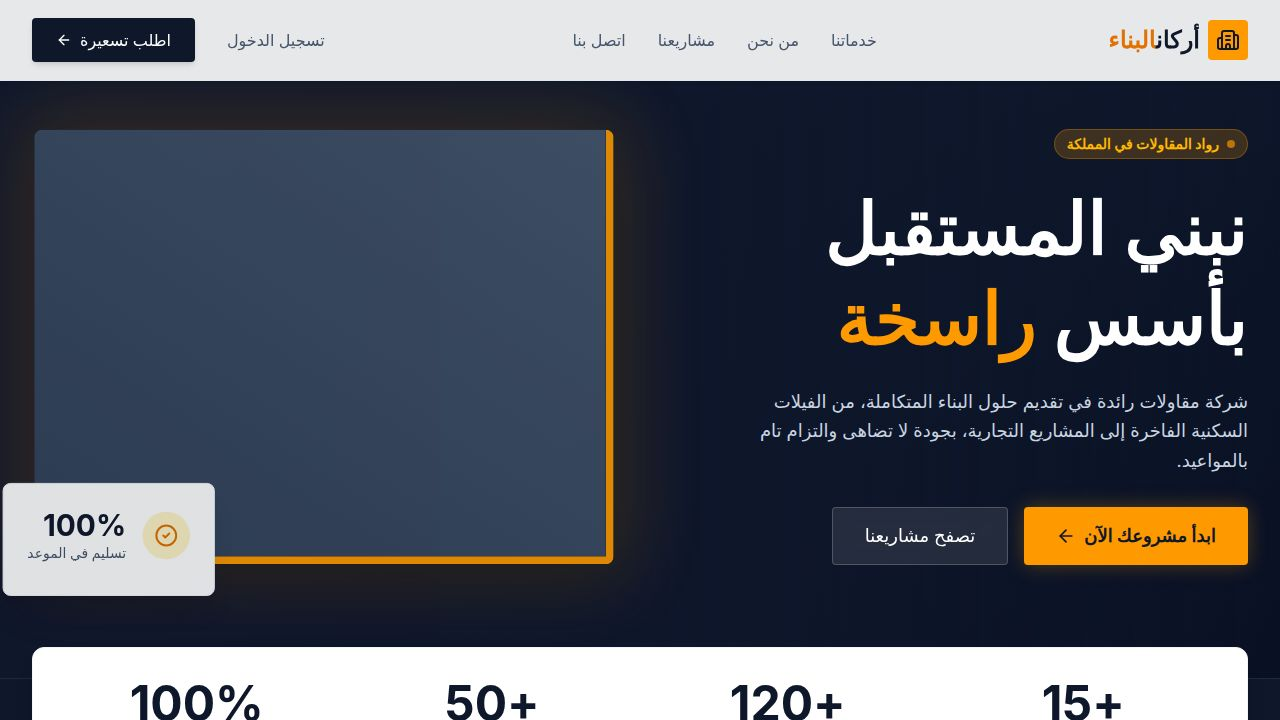
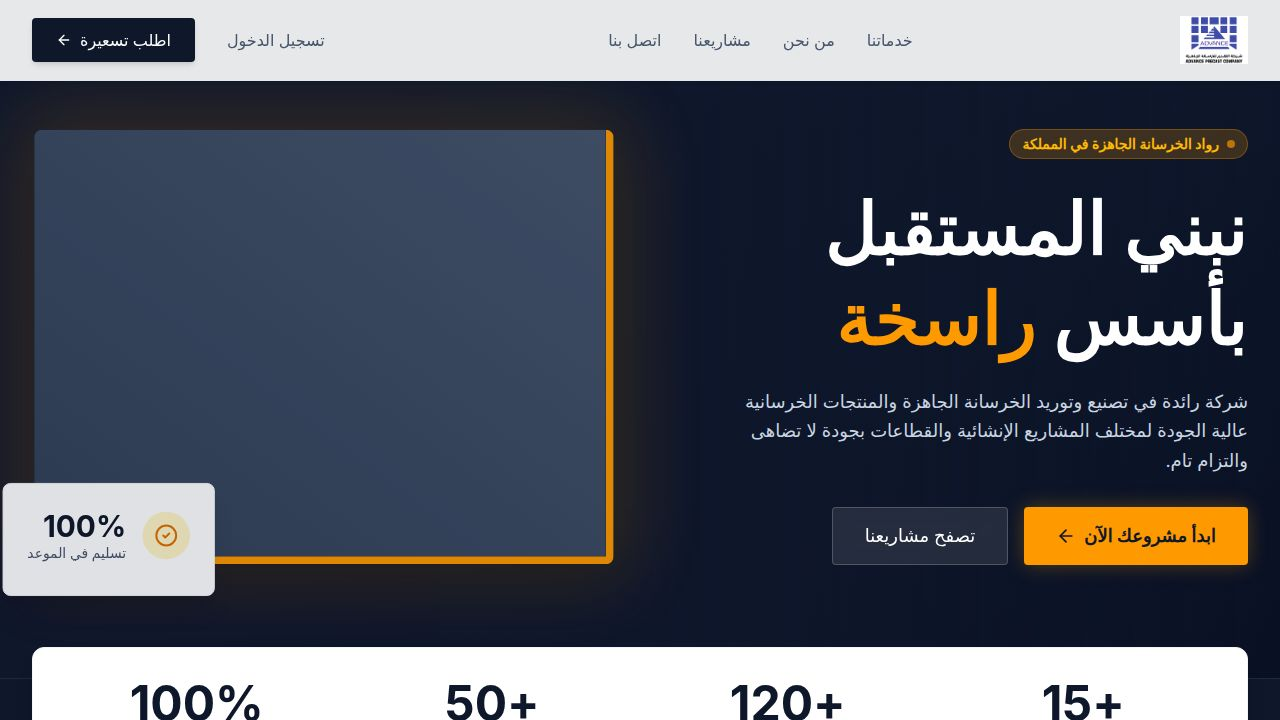
Update company branding to reflect precast concrete specialization
Replace old company name and logo with new branding for "Advance Precast Company". Update website copy and email to reflect specialization.

Replit-Commit-Author: Agent
Replit-Commit-Session-Id: 3ed3f2f6-767d-4bb3-90f8-93438a2cdc67
Replit-Commit-Checkpoint-Type: full_checkpoint
Replit-Commit-Event-Id: 6deca116-220c-4197-b498-29e1e76ca1f5
Replit-Commit-Screenshot-Url: https://storage.googleapis.com/screenshot-production-us-central1/3832555d-48f5-4ab1-b8c0-a8dc9268190d/3ed3f2f6-767d-4bb3-90f8-93438a2cdc67/ygsLLxz
Replit-Helium-Checkpoint-Created: true

diff --git a/artifacts/company-system/src/pages/home.tsx b/artifacts/company-system/src/pages/home.tsx
@@ -27,10 +27,7 @@ export function Home() {
         <div className="max-w-7xl mx-auto px-4 sm:px-6 lg:px-8">
           <div className="flex justify-between h-20 items-center">
             <Link href="/" className="flex items-center gap-2 cursor-pointer" data-testid="link-home">
-              <div className="w-10 h-10 bg-amber-500 rounded flex items-center justify-center">
-                <Building2 className="text-slate-900 w-6 h-6" />
-              </div>
-              <span className="font-bold text-2xl tracking-tight text-slate-900">أركان<span className="text-amber-600">البناء</span></span>
+              <img src="/company-logo.png" alt="شركة التقدم للخرسانة الجاهزة" className="h-12 w-auto" />
             </Link>
             
             <div className="hidden md:flex items-center gap-8 font-medium">
@@ -92,13 +89,13 @@ export function Home() {
             >
               <motion.div variants={fadeIn} className="inline-flex items-center gap-2 px-3 py-1 rounded-full bg-amber-500/20 border border-amber-500/30 text-amber-400 text-sm font-semibold mb-6">
                 <span className="w-2 h-2 rounded-full bg-amber-500 animate-pulse"></span>
-                رواد المقاولات في المملكة
+                رواد الخرسانة الجاهزة في المملكة
               </motion.div>
               <motion.h1 variants={fadeIn} className="text-5xl lg:text-7xl font-bold leading-tight mb-6 text-white">
                 نبني المستقبل بأسس <span className="text-amber-500">راسخة</span>
               </motion.h1>
               <motion.p variants={fadeIn} className="text-lg text-slate-300 mb-8 leading-relaxed max-w-lg">
-                شركة مقاولات رائدة في تقديم حلول البناء المتكاملة، من الفيلات السكنية الفاخرة إلى المشاريع التجارية، بجودة لا تضاهى والتزام تام بالمواعيد.
+                شركة رائدة في تصنيع وتوريد الخرسانة الجاهزة والمنتجات الخرسانية عالية الجودة لمختلف المشاريع الإنشائية والقطاعات بجودة لا تضاهى والتزام تام.
               </motion.p>
               <motion.div variants={fadeIn} className="flex flex-col sm:flex-row gap-4">
                 <button className="bg-amber-500 hover:bg-amber-400 text-slate-900 px-8 py-3.5 rounded font-bold text-lg transition-all shadow-[0_0_20px_rgba(245,158,11,0.3)] hover:shadow-[0_0_30px_rgba(245,158,11,0.5)] flex items-center justify-center gap-2" data-testid="button-start-project">
@@ -245,7 +242,7 @@ export function Home() {
                     </div>
                     <div>
                       <div className="text-slate-400 text-sm mb-1">البريد الإلكتروني</div>
-                      <div className="text-lg font-medium font-sans" dir="ltr">info@arkan-build.com</div>
+                      <div className="text-lg font-medium font-sans" dir="ltr">info@advance-precast.com</div>
                     </div>
                   </div>
                   

diff --git a/artifacts/company-system/src/pages/login.tsx b/artifacts/company-system/src/pages/login.tsx
@@ -61,11 +61,14 @@ export function Login() {
         </div>
         
         <div className="relative z-10">
-          <div className="flex items-center gap-2 mb-12">
-            <div className="w-12 h-12 bg-amber-500 rounded flex items-center justify-center shadow-lg">
-              <Building2 className="text-slate-900 w-7 h-7" />
+          <div className="flex items-center gap-3 mb-12">
+            <div className="bg-white rounded-xl p-2 shadow-lg">
+              <img src="/company-logo.png" alt="شركة التقدم للخرسانة الجاهزة" className="h-12 w-auto" />
             </div>
-            <span className="font-bold text-3xl tracking-tight text-white">أركان<span className="text-amber-500">البناء</span></span>
+            <div className="flex flex-col">
+              <span className="font-bold text-lg leading-tight text-white">شركة التقدم</span>
+              <span className="font-bold text-lg leading-tight text-amber-400">للخرسانة الجاهزة</span>
+            </div>
           </div>
         </div>
 
@@ -98,11 +101,8 @@ export function Login() {
       <div className="w-full md:w-1/2 flex items-center justify-center p-8 md:p-12 relative bg-white">
         <div className="w-full max-w-md">
           
-          <div className="md:hidden flex items-center gap-2 mb-12 justify-center">
-            <div className="w-10 h-10 bg-amber-500 rounded flex items-center justify-center">
-              <Building2 className="text-slate-900 w-6 h-6" />
-            </div>
-            <span className="font-bold text-2xl tracking-tight text-slate-900">أركان<span className="text-amber-600">البناء</span></span>
+          <div className="md:hidden flex items-center gap-3 mb-12 justify-center">
+            <img src="/company-logo.png" alt="شركة التقدم للخرسانة الجاهزة" className="h-14 w-auto" />
           </div>
 
           <div className="mb-10 text-center md:text-right">

diff --git a/artifacts/api-server/src/routes/company.ts b/artifacts/api-server/src/routes/company.ts
@@ -48,7 +48,7 @@ const stringField = (body: Record<string, unknown>, key: string) => typeof body[
 const arrayField = (body: Record<string, unknown>, key: string) => Array.isArray(body[key]) ? body[key].filter((item): item is string => typeof item === "string") : [];
 const isEmail = (value: string) => /^[^\s@]+@[^\s@]+\.[^\s@]+$/.test(value);
 const daysUntil = (date: Date | null) => date ? Math.ceil((date.getTime() - Date.now()) / (1000 * 60 * 60 * 24)) : null;
-const systemEmail = () => process.env.COMPANY_SYSTEM_EMAIL ?? "info@arkan-build.com";
+const systemEmail = () => process.env.COMPANY_SYSTEM_EMAIL ?? "info@advance-precast.com";
 
 const publicUser = (user: typeof systemUsersTable.$inferSelect) => ({
   id: user.id,
@@ -487,7 +487,7 @@ router.post("/company/contracts/:id/email-update", async (req, res): Promise<voi
     fromEmail: systemEmail(),
     toEmail,
     subject: `تحديث عقد ${contract.code} - ${contract.projectName}`,
-    body: `مرحباً،\n\n${movement}\n${details}\n\nشركة أركانا البناء`,
+    body: `مرحباً،\n\n${movement}\n${details}\n\nشركة التقدم للخرسانة الجاهزة`,
     relatedModule: "contracts",
     relatedId: contract.id,
     createdBy: "المدير العام",

diff --git a/artifacts/company-system/src/pages/employee-dashboard.tsx b/artifacts/company-system/src/pages/employee-dashboard.tsx
@@ -59,10 +59,13 @@ export function EmployeeDashboard() {
       <aside className="w-64 bg-slate-900 text-slate-300 hidden lg:flex flex-col border-l border-slate-800 shrink-0">
         <div className="h-20 flex items-center px-6 border-b border-slate-800">
           <div className="flex items-center gap-2">
-            <div className="w-8 h-8 bg-amber-500 rounded flex items-center justify-center">
-              <Building2 className="text-slate-900 w-5 h-5" />
+            <div className="bg-white rounded-lg p-1.5 shrink-0">
+              <img src="/company-logo.png" alt="شركة التقدم للخرسانة الجاهزة" className="h-8 w-auto" />
             </div>
-            <span className="font-bold text-xl tracking-tight text-white">أركان<span className="text-amber-500">البناء</span></span>
+            <div className="flex flex-col leading-tight">
+              <span className="font-bold text-sm text-white">شركة التقدم</span>
+              <span className="text-xs text-amber-400">للخرسانة الجاهزة</span>
+            </div>
           </div>
         </div>
 

diff --git a/artifacts/company-system/src/pages/admin-dashboard.tsx b/artifacts/company-system/src/pages/admin-dashboard.tsx
@@ -320,10 +320,13 @@ export function AdminDashboard() {
       <aside className="w-64 bg-slate-900 text-slate-300 hidden lg:flex flex-col border-l border-slate-800 shrink-0">
         <div className="h-20 flex items-center px-6 border-b border-slate-800">
           <div className="flex items-center gap-2">
-            <div className="w-8 h-8 bg-amber-500 rounded flex items-center justify-center">
-              <Building2 className="text-slate-900 w-5 h-5" />
+            <div className="bg-white rounded-lg p-1.5 shrink-0">
+              <img src="/company-logo.png" alt="شركة التقدم للخرسانة الجاهزة" className="h-8 w-auto" />
             </div>
-            <span className="font-bold text-xl tracking-tight text-white">أركان<span className="text-amber-500">البناء</span></span>
+            <div className="flex flex-col leading-tight">
+              <span className="font-bold text-sm text-white">شركة التقدم</span>
+              <span className="text-xs text-amber-400">للخرسانة الجاهزة</span>
+            </div>
           </div>
         </div>
 

diff --git a/artifacts/company-system/src/pages/client-portal.tsx b/artifacts/company-system/src/pages/client-portal.tsx
@@ -27,10 +27,10 @@ export function ClientPortal() {
         <div className="max-w-7xl mx-auto px-4 sm:px-6 lg:px-8">
           <div className="flex justify-between items-center h-16">
             <div className="flex items-center gap-3">
-              <div className="w-8 h-8 bg-amber-500 rounded flex items-center justify-center">
-                <Building2 className="text-slate-900 w-5 h-5" />
+              <div className="bg-white rounded-lg p-1.5">
+                <img src="/company-logo.png" alt="شركة التقدم للخرسانة الجاهزة" className="h-8 w-auto" />
               </div>
-              <span className="font-bold text-xl hidden sm:block">أركان<span className="text-amber-500">البناء</span></span>
+              <span className="font-bold text-sm hidden sm:block text-white leading-tight">شركة التقدم<br/><span className="text-amber-400 text-xs">للخرسانة الجاهزة</span></span>
             </div>
             
             <div className="flex items-center gap-6">

diff --git a/replit.md b/replit.md
@@ -31,7 +31,7 @@ See the `pnpm-workspace` skill for workspace structure, TypeScript setup, and pa
 ## Company System
 
 - A React/Vite deployable web artifact exists at `artifacts/company-system` with preview path `/`.
-- The app is an Arabic RTL contracting company system MVP based on the user's approved canvas mockups and existing GitHub Laravel project reference.
+- The app is an Arabic RTL system for **شركة التقدم للخرسانة الجاهزة (Advance Precast Company)**, based on the user's approved canvas mockups and existing GitHub Laravel project reference.
 - Current frontend routes:
   - `/` public contracting company homepage
   - `/login` database-backed login screen
